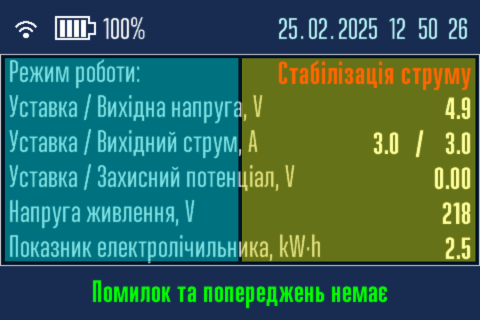
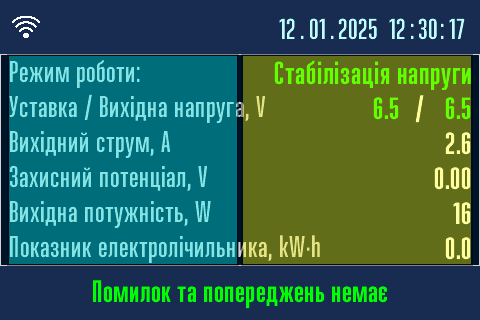
8

diff --git a/docs/manual-interface.md b/docs/manual-interface.md
@@ -10,21 +10,41 @@ icon: material/gesture-tap-box
 
 ## Дисплей, кнопки та ручка енкодера { #manual-interface-dysplay data-toc-label='Чим керувати?' }
 
-Перетворювач має вбудований 3,5 дюймовий кольоровий сенсорний TFT LCD дисплей з екраном розміром 73x50 мм. Він зображує поточні параметри перетворювача та їхню зміну при керуванні. Крім того, можна, як додаткову можливість, використовувати сенсорний екран для керування. 
-
-Перетворювач має чотири кнопки для зміни типу стабілізації та міні-зумер для сигналізації про натиснення кнопок.  
+Перетворювач має чотири кнопки для зміни типу стабілізації або вимкнення виходу та міні-зумер для сигналізації про натиснення кнопок.  
 За допомогою кнопок можливо виконати дві дії:
 
 - [x] Натиснути на кнопку й зразу відпустити, при цьому лунає дуже короткий звуковий сигнал.
 - [x] Довго, більш ніж на дві секунди, натиснути на кнопку, та відпустити після довгого, пів-секундного, звукового сигналу.
 
 Основним органом керування перетворювачем є ручка енкодера. В перетворювачі встановлено електромеханічний енкодер з кнопкою. 
-За допомогою ручки енкодера можливо виконати чотири дії:
+За допомогою ручки енкодера можливо виконати п'ять дій:
 
 - [x] Повернути ручку енкодера праворуч, при цьому лунає дуже короткий звуковий сигнал.
 - [x] Повернути ручку енкодера ліворуч, при цьому лунає дуже короткий звуковий сигнал.
 - [x] Натиснути на ручку енкодера й зразу відпустити, при цьому лунає дуже короткий звуковий сигнал.
+- [x] Натиснути на ручку енкодера й зразу відпустити й знову негайно натиснути на ручку енкодера й зразу відпустити, при цьому лунає короткий звуковий сигнал.
 - [x] Довго, більш ніж на дві секунди, натиснути на ручку енкодера, та відпустити після довгого, пів-секундного, звукового сигналу.
+
+Перетворювач має вбудований 3,5 дюймовий кольоровий сенсорний TFT LCD дисплей з екраном розміром 73x50 мм. Він зображує поточні параметри перетворювача, їхню зміну та вибраний режим роботи. Крім того, можна, як додаткову можливість, використовувати сенсорний екран для керування. 
+
+## Комбінації дій кнопок, ручки енкодера та зумера { #manual-interface-combination data-toc-label='Як керувати?' }
+
+В тексті далі буде використовуваться наступна лексика та піктограми для команд, які можливі через такі комбінації:
+
+| Команда для кнопок | Детальний опис, як виконати команду |
+|---|---|
+| Коротке<br>натискання кнопки :material-clock-time-one: | Коротко натиснути на кнопку й зразу відпустити,<br>при цьому лунає дуже короткий звуковий сигнал |
+| Довге<br>натискання кнопки :material-clock-time-ten: | Довго, більш ніж на дві секунди, натиснути на кнопку й<br>відпустити після довгого, пів-секундного, звукового сигналу |
+
+Кнопки використовуються тільки для вибору типу стабілізації. 
+
+| Команда для енкодера | Детальний опис, як виконати команду |
+|---|---|
+| Поворот<br>праворуч :material-rotate-right: | Повернути ручку енкодера праворуч, при цьому<br>лунає дуже короткий звуковий сигнал |
+| Поворот<br>ліворуч :material-rotate-left: | Повернути ручку енкодера ліворуч, при цьому<br>лунає дуже короткий звуковий сигнал |
+| Коротке<br>натискання ручки :material-clock-time-one-outline: | Коротко натиснути на ручку енкодера й зразу відпустити,<br>при цьому лунає дуже короткий звуковий сигнал |
+| Подвійне<br>натискання ручки  :material-clock-time-one-outline:  :material-clock-time-one-outline: | Коротко натиснути на ручку й зразу відпустити потім негайно знову коротко натиснути на ручку й зразу відпустити<br>при цьому лунає короткий звуковий сигнал |
+| Довге<br>натискання ручки :material-clock-time-ten-outline: | Довго, більш ніж на дві секунди, натиснути на ручку енкодера й<br>відпустити після довгого, пів-секундного, звукового сигналу |
 
 ## Використання сенсорного екрана дисплея { #manual-interface-sensor data-toc-label='Сенсорний екран' }
 
@@ -34,8 +54,8 @@ icon: material/gesture-tap-box
   Верхній блок у всіх інших сторінок використовується для назви сторінки. 
 - Далі основний блок, він займає близько 70% висоти сторінки. В ньому розміщується інформація, меню тощо. 
   Основний блок має дві сенсорні зони.   
-    * Ліва блакитна зона, надалі по тексту ця зона буде називатися ==*лівою сенсорною зоною*==.   
-    * Права жовта зона, надалі по тексту ця зона буде називатися ==*правою сенсорною зоною*==.  
+  Ліва блакитна зона, надалі по тексту ця зона буде називатися ==*лівою сенсорною зоною*==.   
+  Права жовта зона, надалі по тексту ця зона буде називатися ==*правою сенсорною зоною*==.  
 - Нижній блок сторінки використовується для повідомлень або підказок.
 
 ![Сенсорні зони.](./assets/images/nex/info-touch.png)
@@ -50,6 +70,15 @@ icon: material/gesture-tap-box
 
 Дисплей майже весь час спить. Екран при цьому темний та ніякі дані дисплей не отримує. Він прокидається лише тоді, коли відкриваються дверцята шафи перетворювача. Він почне отримувати дані та показувати їх на екрані. Після закриття дверцят шафи він знову засинає.
 
+## Режими роботи перетворювача { #manual-interface-modes data-toc-label='Режими роботи' }
+
+Перетворювач може працювати в 4 режимах роботи:
+
+- Режим стабілізації напруги. Має зелений світлодіодний індикатор та зелену кнопку.
+- Режим стабілізації струму. Має жовтий світлодіодний індикатор та жовту кнопку.
+- Режим стабілізації потенціалу. Має синій світлодіодний індикатор та синю кнопку.
+- Вихід вимкнутий, режим очікування. Має червоний світлодіодний індикатор та червону або чорну кнопку.
+
 ## Стартова сторінка з логотипом { #manual-interface-logo data-toc-label='Стартова сторінка' }
 
 Після ввімкнення живлення на дисплеї з'явиться логотип ТОВ "Технотек" та назва моделі перетворювача. Одночасно з цим дисплей починає отримувати від модуля управління поточні дані про стан перетворювача. 
@@ -59,60 +88,67 @@ icon: material/gesture-tap-box
 Через декілька секунд відкриється головна сторінка.
 
 !!! note "Команд для цієї сторінки немає."
-    Команди ручки енкодера на цій сторінці не працюють.
-    Сенсорних зон на цій сторінці немає.
+    Команди на цій сторінці не працюють.  
+    Сенсорних зон на цій сторінці немає.  
 
 ## Iнформаційні сторінки { #manual-interface-info data-toc-label='Головна сторінка' }
 
-Є дві інформаційні сторінки.   
-Перша сторінка є головною сторінкою в перетворювачі, вона показується протягом 12 секунд.
+Дисплей показує дві інформаційні сторінки.   
+Перша інформаційна сторінка є головною сторінкою в перетворювачі, вона показується протягом 12 секунд.
 
 ![Перша інформація.](./assets/images/nex/info1.png)
 
-Друга сторінка показується протягом 6 секунд. 
+Друга інформаційна сторінка є додатковою й показується протягом 6 секунд. 
 
 ![Друга інформація.](./assets/images/nex/info2.png)
 
 Й далі по колу. Інформація оновлюється в режимі реального часу.
 
 !!! note "Команди для цих сторінок."
-    - Повороти праворуч :material-rotate-right: та ліворуч :material-rotate-left: не працюють.
-    - Коротке натискання ручкою :material-clock-time-one-outline: - негайний, без тайм-аута, перехід до іншої інформаційної сторінки.
-    - Довге натискання кнопок :material-clock-time-three-outline: - перехід до [вибору режиму роботи]( #manual-interface-mode).
-    - Ліва сенсорна зона - перехід до [вибору режиму роботи]( #manual-interface-mode).
-    - Довге натискання ручкою :material-clock-time-three-outline: та права сенсорна зона - перехід до [меню налаштувань](#manual-interface-mode).
+    - Довге натискання кнопок :material-clock-time-ten:  перехід до [обраного режиму роботи]( #manual-interface-mode-button ).
+    - Коротке натискання ручки :material-clock-time-one-outline: негайний, без тайм-аута, перехід до іншої інформаційної сторінки.
+    - Подвійне натискання ручки :material-clock-time-one-outline: :material-clock-time-one-outline: перехід до [вибору режиму роботи]( #manual-interface-mode).
+    - Ліва сенсорна зона: перехід до [вибору режиму роботи]( #manual-interface-mode).
+    - Довге натискання ручки :material-clock-time-ten-outline: та права сенсорна зона: перехід до [меню налаштувань](#manual-interface-mode).
 
-## Вибір режиму роботи перетворювача { #manual-interface-mode data-toc-label='Вибір режиму роботи' }
+## Налаштування режиму роботи перетворювача { #manual-interface-mode data-toc-label='Налаштування режиму роботи ' }
 
-Режим роботи перетворювача можна встановити за допомогою кнопок або сенсорного дисплея.
+### Налаштування режиму роботи перетворювача кнопками { #manual-interface-mode-button data-toc-label='Кнопками' }
 
-- Довго натиснути кнопку типу стабілізації :material-clock-time-three-outline: й перейти в обраний режим роботи
-- Натиснути на ліву сенсорну зону для переходу на сторінку вибора режиму роботу
+Швидко та зручно встановити режим роботи перетворювача можна за домогою кнопок.
+
+- [x] Перейдіть в РУЧНИЙ РЕЖИМ. Для цього довго, більш ніж на дві секунди, натиснути на кнопку потрібного режиму роботи :material-clock-time-ten: й відпустити після довгого, пів-секундного, звукового сигналу.
+- [x] Світлодіодний індикатор обраного режиму почне блимати раз на секунду.
+- [x] Поворотом ручки енкодера праворуч :material-rotate-right: та/або ліворуч :material-rotate-left: встановити необхідне значення уставки напруги, струму або потенціалу.
+- [x] Після налаштування коротко натисніть на відповідну кнопку :material-clock-time-one: й відпустіть або зачекайте 20 секунд. Перетворювач перейде в АВТОМАТИЧНИЙ РЕЖИМ.
+
+Змінити режим роботи перетворювача можна також за допомогою ручки або сенсорного дисплея. 
+
+### Налаштування режиму роботи ручкою або сенсорним дисплеєм { #manual-interface-mode-sensor data-toc-label='Ручкою або сенсорним дисплеєм' }
+
+Для переходу на сторінку вибора режиму роботи натисніть на ліву сенсорну зону або використайте подвійне натискання :material-clock-time-one-outline: :material-clock-time-one-outline: ручки.
 
 ![Сторінка вибіру режиму роботи.](./assets/images/nex/mode.png)
-
-!!! note "Команди для цієї сторінки."
-    - Поворот праворуч :material-rotate-right: та ліворуч :material-rotate-left: перехід по пунктах меню.
-    - Коротке натискання :material-clock-time-one-outline: - перехід до обраного режиму роботи.
-    - Довге натискання :material-clock-time-three-outline: та ліва або права сенсорна зона - повернутися до головної сторінки.
 
 <div class="annotate" markdown>
 - [x] Перейдіть в потрібний пункт меню (1) поворотом ручки праворуч :material-rotate-right: або ліворуч :material-rotate-left:.
 - [x] Виберіть його коротким натисканням ручки :material-clock-time-one-outline:.
 - [x] Якщо команда виконалася без помилок, то з'явиться (2) підтвердження про успіх. 
-- [x] Автоматично відкриється (3) головна сторінка.    
+- [x] Автоматично відкриється (3) головна сторінка та світлодіодний індикатор обраного режиму почне блимати раз на секунду.
+- [x] Поворотом ручки праворуч :material-rotate-right: та ліворуч :material-rotate-left: встановіть необхідне значення уставки напруги, струму або потенціалу.
+- [x] Коротко натисніть :material-clock-time-one-outline: відповідну кнопку або зачекайте 20 секунд для переходу в АВТОМАТИЧНИЙ РЕЖИМ.   
 </div>
 1. ![Вибір режиму роботи.](./assets/images/nex/mode-select.png) 
 2. ![Зміна режиму роботи.](./assets/images/nex/mode-change.png)
 3. ![Головна сторінка.](./assets/images/nex/info-voltage.png)
 
+!!! note "Команди для цієї сторінки."
+    - Поворот праворуч :material-rotate-right: та ліворуч :material-rotate-left: вибір режиму роботи.
+    - Коротке натискання :material-clock-time-one-outline: перехід до обраного режиму роботи.
+    - Подвійне :material-clock-time-one-outline: :material-clock-time-one-outline: та довге натискання :material-clock-time-ten-outline: та ліва або права сенсорна зона - повернутися до головної сторінки.
+
 !!! info "Автоматичний перехід при бездіяльності"
     Якщо оператор не здійснює жодних команд, то виконується автоматичний перехід до головної сторінки через 20 секунд бездіяльності.
-
-## Встановлення уставки для обраного режиму роботи { #manual-interface-preset data-toc-label='Встановлення уставки' }
-
-- [x] Поворотом ручки праворуч :material-rotate-right: та ліворуч :material-rotate-left: встановіть необхідне значення уставки напруги, струму або потенціалу.
-- [x] Коротко натисніть :material-clock-time-one-outline: кнопку або зачекайте 20 секунд для переходу в АВТОМАТИЧНИЙ РЕЖИМ.
 
 ## Меню налаштувань перетворювача { #manual-interface-mode data-toc-label='Меню налаштувань' }
 
@@ -120,8 +156,8 @@ icon: material/gesture-tap-box
 
 !!! note "Команди для цієї сторінки."
     - Поворот праворуч :material-rotate-right: та ліворуч :material-rotate-left: перехід по пунктах меню.
-    - Коротке натискання :material-clock-time-one-outline: - перехід до обраного пункта меню.
-    - Довге натискання :material-clock-time-three-outline: та ліва або права сенсорна зона - повернутися до головної сторінки.
+    - Коротке натискання :material-clock-time-one-outline: ручки: перехід до обраного пункта меню.
+    - Подвійне або довге натискання :material-clock-time-ten-outline: ручки та ліва або права сенсорна зона: повернутися до головної сторінки.
 
 !!! info "Автоматичний перехід при бездіяльності"
     Якщо оператор не здійснює жодних команд, то виконується автоматичний перехід до головної сторінки через 20 секунд бездіяльності.
@@ -131,7 +167,7 @@ icon: material/gesture-tap-box
 !!! note "Команди для цієї сторінки."
     - Поворот праворуч :material-rotate-right: та ліворуч :material-rotate-left: перехід по пунктах меню.
     - Коротке натискання ручки :material-clock-time-one-outline: - перехід до обраного пункта меню.
-    - Довге натискання ручки :material-clock-time-three-outline: та ліва або сенсорна зона - повернутися до головної сторінки.
+    - Подвійне або довге натискання ручки :material-clock-time-ten-outline: та ліва або сенсорна зона - повернутися до головної сторінки.
 
 !!! info "Автоматичний перехід при бездіяльності"
     Якщо оператор не здійснює жодних команд, то виконується автоматичний перехід до головної сторінки через 20 секунд бездіяльності.
